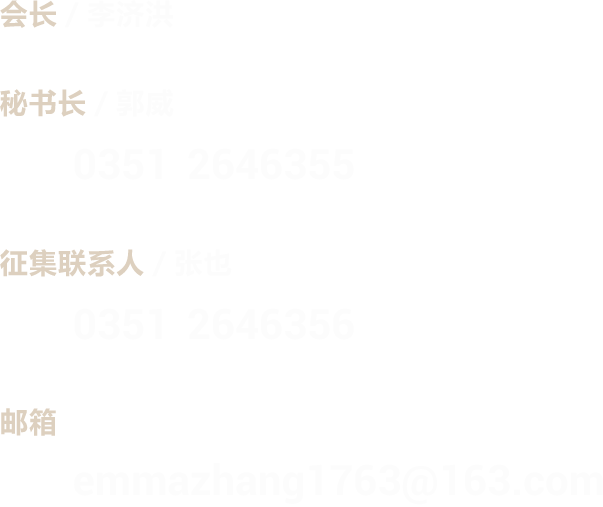
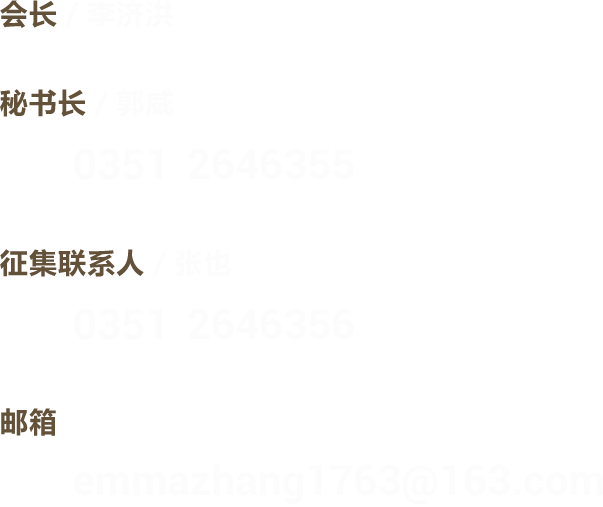
888

diff --git a/index.html b/index.html
@@ -27,7 +27,7 @@
                     <img src="images/slide1/shouye-zi.png" alt="">
                 </div>
                 <div class="biaoti ani" swiper-animate-effect="fadeInUp" swiper-animate-duration="1s"
-                     swiper-animate-delay="1s">原太原电力高等专科学校计算机工程系校友会<br>原太原电力高等专科学校信息工程系系计算机校友会
+                     swiper-animate-delay="1s">原太原电力高等专科学校计算机工程系校友会<br>原太原电力高等专科学校信息工程系计算机校友会
                 </div>
                 <div class="hezi" style="position: relative;width: 100%;height: 100px;margin-top: 0.4rem">
                     <img class="yingwen ani" swiper-animate-effect="bounceInRight" swiper-animate-duration="1s"
@@ -35,7 +35,7 @@
                     <div class="yuan ani" swiper-animate-effect="bounceInLeft" swiper-animate-duration="1s"
                          swiper-animate-delay="0.5s"></div>
                 </div>
-                <div class="hezi1" style="position: relative;width: 100%;height: 280px;">
+                <div class="hezi1" style="position: relative;width: 100vw;height: 280px;margin-left:-0.45rem">
                     <img class="door ani" swiper-animate-effect="bounceInUp" swiper-animate-duration="1.5s"
                          swiper-animate-delay="0.5s" src="images/slide1/shouye.png" alt="">
                 </div>
@@ -53,7 +53,7 @@
                 <div class="width">
                     <div class="description">
                         <div class="ani" swiper-animate-effect="fadeInRight" swiper-animate-duration="0.5s"
-                             swiper-animate-delay="0.2s">校友是学校的重要资源和宝贵财富，大家用自己的智慧和汗水，
+                             swiper-animate-delay="0.2s">校友是学校的重要资源和宝贵财富，大家用智慧和汗水，
                         </div>
                         <div class="ani" swiper-animate-effect="fadeInRight" swiper-animate-duration="0.5s"
                              swiper-animate-delay="0.4s">为行业发展和社会建设做出了积极贡献,
@@ -326,7 +326,7 @@
                       swiper-animate-delay="0.4s" action="javascript:;" id="formBox">
                     <div class="form-control ">
                         <div class="field pointer">
-                            <input type="text " class="input " onclick="sr(this);" onblur="nosr(this)" name="name" data-validata="required:内容必填,chinese:必须是中文" placeholder="姓名 ">
+                            <input type="text " class="input "  name="name" data-validata="required:内容必填,chinese:必须是中文" placeholder="姓名 ">
                         </div>
                         <style>
                             .form .field.pointer.sex:before {
@@ -343,35 +343,34 @@
 
                         <div class="field pointer sex"
                              style="color:#ccc;font-size:14px;border-bottom: 1px solid #ccc;height:0.8rem;">
-                            <span style="vertical-align: 5px">&nbsp; &nbsp; &nbsp;男：</span> <input type="radio" value="男" onclick="sr(this);" onblur="nosr(this)" name="sex" checked
+                            <span style="vertical-align: 5px">&nbsp; &nbsp; &nbsp;男：</span> <input type="radio" value="男"  name="sex" checked
                                                                  style="margin-top: .2rem;width: 0.4rem;height: 0.4rem;">
-                            <span style="vertical-align: 5px">&nbsp; &nbsp; &nbsp;女：</span> <input type="radio" value="女" onclick="sr(this);" onblur="nosr(this)" name="sex" style="margin-top: .2rem;width: 0.4rem;height: 0.4rem;">
+                            <span style="vertical-align: 5px">&nbsp; &nbsp; &nbsp;女：</span> <input type="radio" value="女"  name="sex" style="margin-top: .2rem;width: 0.4rem;height: 0.4rem;">
                         </div>
 
                         <div class="field pointer  ">
-                            <input type="text " class="input " onclick="sr(this);" onblur="nosr(this)" name="minzu" data-validata="required:内容必填,chinese:必须是中文"
+                            <input type="text " class="input "  name="minzu" data-validata="required:内容必填,chinese:必须是中文"
                                    placeholder="民族">
                         </div>
                         <div class="field pointer ">
-                            <input type="text " class="input" onclick="sr(this);" onblur="nosr(this)" name="mobile"
+                            <input type="text " class="input"  name="mobile"
                                    data-validata="required:内容必填,mobile:手机号格式不正确" placeholder="手机号码">
                         </div>
                         <div class="field pointer ">
-                            <input type="text " class="input" onclick="sr(this);" onblur="nosr(this)" name="wchart" placeholder="微信号">
+                            <input type="text " class="input"  name="wchart" placeholder="微信号">
                         </div>
 
                         <div class="field pointer" style="border-bottom: 1px solid #ccc">
                             <div class="field" style="position: relative;" >
-                                <input type="text " class="input" onclick="sr(this);" onblur="nosr(this)" name="wchart" placeholder="微信号" style="visibility: hidden">
+                                <input type="text " class="input"  name="wchart" style="visibility: hidden">
                                 <div style="height:100%;font-size: 14px;color: #ccc;display: inline-block;position: absolute;top: 0.2rem;left: 0">出生日期</div>
-                                <input type="date" class="input" onclick="sr(this);" onblur="nosr(this)" name="birthday" placeholder="出生年月" style="border: none;width: 60%;left: 1.6rem;position: absolute;top:0">
+                                <input type="date" class="input"  name="birthday" placeholder="出生年月" style="border: none;width: 60%;left: 1.6rem;position: absolute;top:0">
                             </div>
-
                         </div>
 
 
                         <div class="field pointer " style="height:100%;">
-                            <select name="mianmao" onclick="sr(this);" onblur="nosr(this)" class="input " id="mianmao"
+                            <select name="mianmao"  class="input " id="mianmao"
                                     style="width: 100%;height: 41px;color: #ccc;font-size: 14px;border: none;border-bottom: 1px solid #ddd;">
                                 <option>群众</option>
                                 <option>党员</option>
@@ -379,7 +378,7 @@
                             </select>
                         </div>
                         <div class="field pointer ">
-                            <select name="Admission" onclick="sr(this);" onblur="nosr(this)" class="input " id="Admission"
+                            <select name="Admission"  class="input " id="Admission"
                                     style="width: 100%;height: 41px;color: #ccc;font-size: 14px;border: none;border-bottom: 1px solid #ddd;">
                                 <option>请选择入学年份</option>
                                 <option>1996</option>
@@ -411,14 +410,14 @@
 
                         <div class="field pointer " style="border-bottom: 1px solid #ccc;position: relative;height:100%;">
                             <div class="field" style="position: relative;" >
-                                <input type="text " class="input" onclick="sr(this);" onblur="nosr(this)" name="wchart" placeholder="微信号" style="visibility: hidden">
+                                <input type="text " class="input"  name="wchart" placeholder="微信号" style="visibility: hidden">
                                 <div style="height:100%;font-size: 14px;color: #ccc;display: inline-block;position: absolute;top: 0.2rem;left: 0">毕业时间</div>
-                                <input type="date" class="input" onclick="sr(this);" onblur="nosr(this)" name="Graduation"  style="border: none;width: 60%;left: 1.6rem;position: absolute;top:0">
+                                <input type="date" class="input"  name="Graduation"  style="border: none;width: 60%;left: 1.6rem;position: absolute;top:0">
                             </div>
 
                         </div>
                         <div class="field pointer">
-                            <select name="major" onclick="sr(this);" onblur="nosr(this)" class="input " id="major"
+                            <select name="major"  class="input " id="major"
                                     style="width: 100%;height: 41px;color: #ccc;font-size: 14px;border: none;border-bottom: 1px solid #ddd;">
                                 <option>请选择专业</option>
                                 <option>计算机科学与技术</option>
@@ -428,7 +427,7 @@
                             </select>
                         </div>
                         <div class="field pointer ">
-                            <input type="text " class="input" onclick="sr(this);" onblur="nosr(this)" name="class" data-validata="required:内容必填"
+                            <input type="text " class="input"  name="class" data-validata="required:内容必填"
                                    placeholder="所在班级">
                         </div>
                     </div>
@@ -450,15 +449,15 @@
             <div class="form-box">
                 <form class="form ani" swiper-animate-effect="fadeInUpBig" swiper-animate-duration="0.5s"
                       swiper-animate-delay="0.4s" action="javascript:;"
-                      id="formBox1">
+                      id="formBox1" name="aa">
                     <div class="field pointer ">
-                        <input type="text " class="input" onclick="sr(this);" onblur="nosr(this)" name="Headmaster" placeholder="班主任">
+                        <input type="text " class="input"  name="Headmaster" placeholder="班主任">
                     </div>
                     <div class="field pointer">
-                        <input type="text " class="input " onclick="sr(this);" onblur="nosr(this)" name="work" placeholder="工作单位 ">
+                        <input type="text " class="input "  name="work" placeholder="工作单位 ">
                     </div>
                     <div class="field pointer ">
-                        <input type="text " class="input " onclick="sr(this);" onblur="nosr(this)" name="Native" placeholder="籍贯">
+                        <input type="text " class="input "  name="Native" placeholder="籍贯">
                     </div>
 
                     <style>
@@ -486,7 +485,7 @@
                                     <a id="expressArea" href="javascript:void(0)">
                                         <dl>
                                             <dt>所在城市：</dt>
-                                            <dd><input type="text" name="Provinces"  onclick="sr(this);" onblur="nosr(this)" style="border: none;" value="省 &gt; 市 &gt; 区/县"><!--省 &gt; 市 &gt; 区/县--></dd>
+                                            <dd><input type="text" name="Provinces"   style="border: none;" value="" placeholder="&nbsp;&nbsp;省 &gt; 市 &gt; 区/县"></dd>
                                         </dl>
                                     </a>
                                 </section>
@@ -511,28 +510,28 @@
 
                     </div>
                     <div class="field pointer ">
-                        <input type="text " class="input" onclick="sr(this);" onblur="nosr(this)" name="duties" placeholder="职务">
+                        <input type="text " class="input"  name="duties" placeholder="职务">
                     </div>
                     <div class="field pointer ">
-                        <input type="text " class="input" onclick="sr(this);" onblur="nosr(this)" name="telephone" placeholder="固定电话">
+                        <input type="text " class="input"  name="telephone" placeholder="固定电话">
                     </div>
                     <div class="field pointer ">
-                        <input type="text " class="input" onclick="sr(this);" onblur="nosr(this)" name="Monitor" placeholder="班长">
+                        <input type="text " class="input"  name="Monitor" placeholder="班长">
                     </div>
                     <div class="field pointer ">
-                        <input type="text " class="input" onclick="sr(this);" onblur="nosr(this)" name="degree" placeholder="学位类别">
+                        <input type="text " class="input"  name="degree" placeholder="学位类别">
                     </div>
                     <div class="field pointer ">
-                        <input type="text " class="input" onclick="sr(this);" onblur="nosr(this)" name="email" placeholder="Email">
+                        <input type="text " class="input"  name="email" placeholder="Email">
                     </div>
                     <div class="field pointer ">
-                        <input type="text " class="input" onclick="sr(this);" onblur="nosr(this)" name="address" placeholder="通讯地址">
+                        <input type="text " class="input"  name="address" placeholder="通讯地址">
                     </div>
                     <div class="field pointer ">
-                        <input type="text " class="input" onclick="sr(this);" onblur="nosr(this)" name="resume" placeholder="工作简历">
+                        <input type="text " class="input"  name="resume" placeholder="工作简历">
                     </div>
                     <div class="field pointer ">
-                        <input type="text " class="input" onclick="sr(this);" onblur="nosr(this)" name="Speciality" placeholder="资源与特长">
+                        <input type="text " class="input"  name="Speciality" placeholder="资源与特长">
                     </div>
                     <div class="form-control ">
                         <div class="field ">
@@ -553,11 +552,11 @@
                  src="images/slide7/school.png"
                  alt="勇攀高峰">
             <div class="ani" swiper-animate-effect="bounceInDown" swiper-animate-duration="0s"
-                 swiper-animate-delay="0.5s" style="text-align: left;color:#fff;font-size: 0.24rem;margin-left: 0.48rem">
+                 swiper-animate-delay="0.5s" style="text-align: left;color:#60513c;font-size: 0.26rem;margin-left: 0.48rem;font-weight: 600">
                 欢迎广大校友，就校友工作的推进、提升献言献策<br>
                 欢迎撰写校园回忆文章投稿
             </div>
-            <img class="tu1" src="images/slide7/about.png" style="width: 2.39rem;height: 1.08rem;margin-left: 0.1rem" alt="">
+            <img class="tu1" src="images/slide7/about.png" style="width: 2.39rem;height: 1.08rem;margin-left: 0.1rem;display: block" alt="">
             <img class="text" src="images/slide7/text.png" alt="">
             <img class="door" src="images/slide7/door.png" alt="">
         </section>
@@ -670,7 +669,7 @@
 
     function blurAdjust(e) {
         setTimeout(() => {
-
+            alert(1)
             // if(document.activeElement.tagName == 'INPUT' || document.activeElement.tagName == 'TEXTAREA') {
             //     return
             // }

diff --git a/css/index.css b/css/index.css
@@ -179,9 +179,8 @@ body,html{
 }
 .swiper-slide1 .door{
     position: absolute;
-    left: -1.3rem;
-    bottom: -0.5rem;
-    width: 120%;
+    bottom: 0rem;
+    width: 100%;
     z-index: 5;
 }
 .swiper-slide1 .yuan{
@@ -338,7 +337,7 @@ body,html{
 
 .common .desc {
     margin: 0 0.17rem;
-    color: #b7a489;
+    color: #6b635a;
     font-size: 0.24rem;
 }
 
@@ -480,13 +479,11 @@ body,html{
     margin-top: 1.11rem;
 }
 .swiper-slide7 .text{
-    width: 6.54rem;
-    height: 5.81rem;
-    margin-left: 0.2rem;
+    width: 6rem;
+    margin-left: 0.4rem;
     position: absolute;
-    left: 0.48rem;
-    bottom: 2.06rem;
-    z-index: 5;
+    z-index: 10;
+    margin-top: 0.3rem;
 }
 .swiper-slide7 .door{
     position: absolute;

diff --git a/css/style.css b/css/style.css
@@ -83,7 +83,7 @@ a:link, a:visited, a:hover, a:active {
     }
 }
 
-.express-area {
+.express-area dl dtexpress-area {
     border-top: 1px solid #ddd;
     border-bottom: 1px solid #ddd;
     background-color: #fff
@@ -97,15 +97,17 @@ a:link, a:visited, a:hover, a:active {
 
 .express-area dl {
     position: relative;
-    color: #4d525d
+    color: #4d525d;
+    border-bottom: 1px solid #ddd;
 }
 
 .express-area dl dt {
     position: absolute;
     top: 0;
     left: 0.4rem;
-    font-size: .14rem;
-    line-height: 0.8rem
+    font-size: 14px;
+    line-height: 0.8rem;
+    color:#bbb;
 }
 
 .express-area dl dd {

diff --git a/js/form-validata.js b/js/form-validata.js
@@ -99,7 +99,6 @@ $(function () {
 			return false;
 		}
 		var params = $formBox.serialize(); //序列化表单的值
-		// console.log(params)
 		$.ajax({
 			url: 'php/form.php?type=insert', //后台处理程序
 			type: 'post',       //数据传送方式
@@ -132,7 +131,6 @@ $(function () {
 			dataType: 'json',   //接受数据格式
 			data: params,       //要传送的数据
 			success: function (data) {
-				console.log(data)
 				if (data.code == 200) {
 					layer.msg(data.msg, { time: 1000 });
 					$formBox1[0].reset();

diff --git a/php/form.php b/php/form.php
@@ -29,7 +29,7 @@ switch ($type){
         $birthday = $_POST['birthday'];
         $mianmao = $_POST['mianmao'];
         $major=$_POST['major'];
-        if (empty($name)||empty($sex)||empty($mobile)||empty($wchart)||empty($Admission)||empty($Graduation)||empty($class)) {
+        if (empty($name)||empty($sex)||empty($mobile)||empty($Admission)||empty($Graduation)||empty($class)) {
             echo json_encode([
                 'code'=>404,
                 "msg"=>'数据未填写完成'
@@ -73,7 +73,6 @@ switch ($type){
             exit();
         }
         $Headmaster = $_POST['Headmaster'];
-
         $work=$_POST['work'];
         $Native=$_POST['Native'];
         $Provinces=$_POST['Provinces'];
@@ -85,21 +84,27 @@ switch ($type){
         $resume=$_POST['resume'];
         $Speciality=$_POST['Speciality'];
         $degree=$_POST['degree'];
-        $update="update fanyiphone set Headmaster='$Headmaster',work='$work',Native='$Native',Provinces='$Provinces',duties='$duties',telephone='$telephone',Monitor='$Monitor',email='$email',address='$address',resume='$resume',Speciality='$Speciality',degree='$degree' where mobile='$mobile'";
-        $result=$conn->query($update);
-        if($result){
-            echo json_encode([
-                'code'=>200,
-                'msg'=>'信息提交成功'
-            ]);
-        }else{
+        if(empty($Headmaster)&&empty($work)&&empty($Native)&&empty($Provinces)&&empty($duties)&&empty($telephone)&&empty($Monitor)&&empty($email)&&empty($address)&&empty($resume)&&empty($Speciality)&&empty($degree)){
             echo json_encode([
                 'code'=>404,
-                'msg'=>'信息提交失败'.$conn->error
+                'msg'=>'至少填写一项'
             ]);
+        }else{
+            $update="update fanyiphone set Headmaster='$Headmaster',work='$work',Native='$Native',Provinces='$Provinces',duties='$duties',telephone='$telephone',Monitor='$Monitor',email='$email',address='$address',resume='$resume',Speciality='$Speciality',degree='$degree' where mobile='$mobile'";
+            $result=$conn->query($update);
+            if($result){
+                echo json_encode([
+                    'code'=>200,
+                    'msg'=>'信息提交成功'
+                ]);
+            }else{
+                echo json_encode([
+                    'code'=>404,
+                    'msg'=>'信息提交失败'.$conn->error
+                ]);
+            }
         }
         break;
-
 }
 
 
